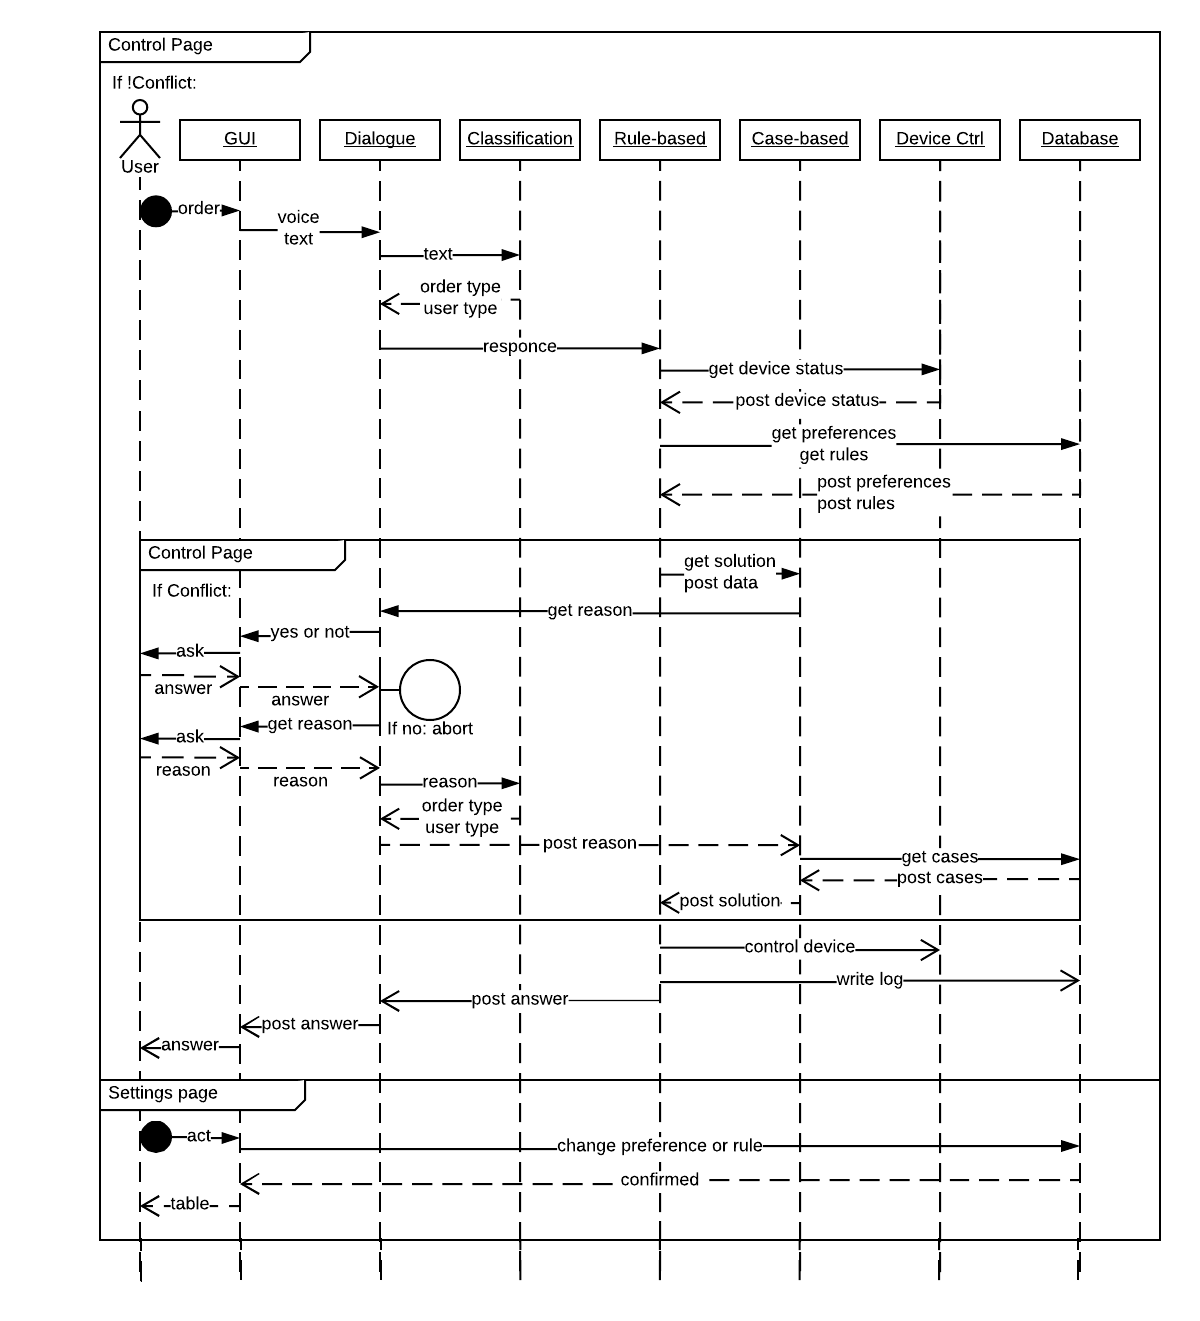
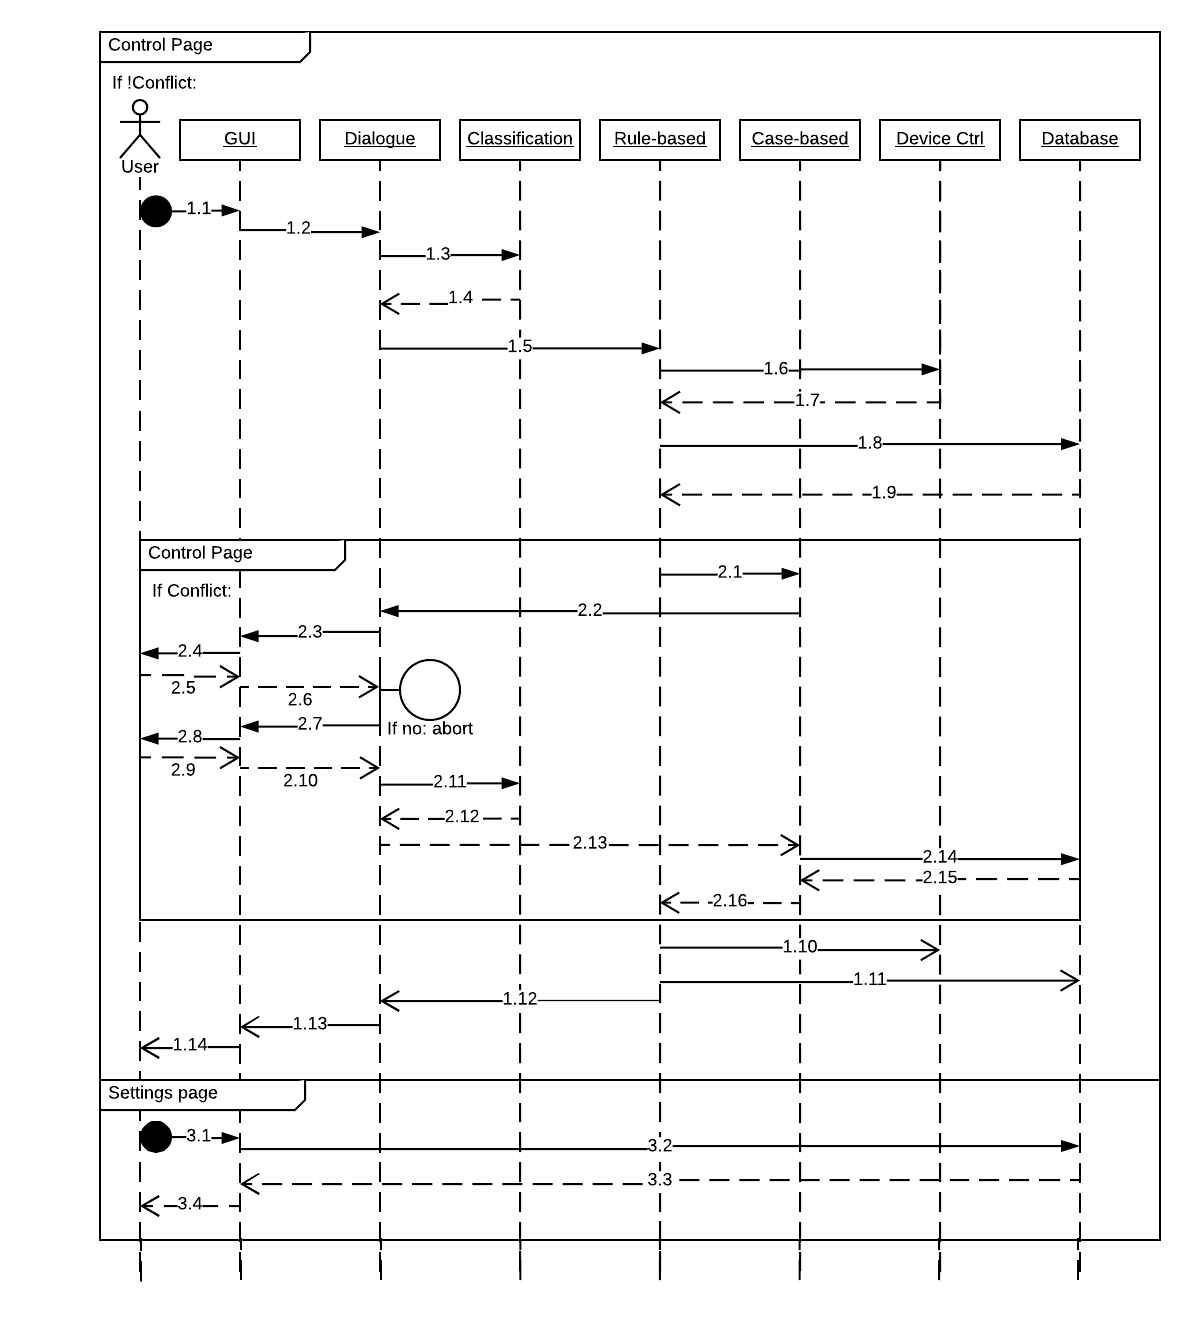
Some work with legal parts.

diff --git a/main.py b/main.py
@@ -10,7 +10,7 @@ app = Flask(__name__)
 
 
 def write2dbLOG(key, value):
-    con = pymysql.connect(host='0.0.0.0', unix_socket='/tmp/mysql.sock', user=None, passwd=None, db='virtass')
+    con = pymysql.connect(host='0.0.0.0', unix_socket='/tmp/mysql.sock', user="root", passwd="123", db='virtass')
     cur = con.cursor(pymysql.cursors.DictCursor)
     id = cur.execute("SELECT * FROM `eval` ORDER BY `eval`.`id` ASC LIMIT 10000")
     cur.execute("UPDATE `eval` SET `" + str(key) + "` = '" + str(value)
@@ -33,7 +33,7 @@ def check_status(deviceNum):
 
 def randomiser():
     # Change rules table
-    con = pymysql.connect(host='0.0.0.0', unix_socket='/tmp/mysql.sock', user=None, passwd=None, db='virtass')
+    con = pymysql.connect(host='0.0.0.0', unix_socket='/tmp/mysql.sock', user="root", passwd="123", db='virtass')
     cur = con.cursor(pymysql.cursors.DictCursor)
 
     users = ["Father", "Mother", "Son", "Grandpa"]
@@ -62,7 +62,7 @@ def randomiser():
         status = 0
     cur.close()
     con.close()
-    con = pymysql.connect(host='0.0.0.0', unix_socket='/tmp/mysql.sock', user=None, passwd=None, db='virtass')
+    con = pymysql.connect(host='0.0.0.0', unix_socket='/tmp/mysql.sock', user="root", passwd="123", db='virtass')
     cur = con.cursor(pymysql.cursors.DictCursor)
 
     cur.execute("UPDATE `rules` SET `user` = '" + str(user2) + "' WHERE `rules`.`id` = 0")
@@ -77,7 +77,7 @@ def randomiser():
     con.close()
 
     # Add values to eval table
-    con = pymysql.connect(host='0.0.0.0', unix_socket='/tmp/mysql.sock', user=None, passwd=None, db='virtass')
+    con = pymysql.connect(host='0.0.0.0', unix_socket='/tmp/mysql.sock', user="root", passwd="123", db='virtass')
     cur = con.cursor(pymysql.cursors.DictCursor)
     order = dev.title() + ["On", "Off"][status]
     Newreason = random.SystemRandom().choice(reasons)
@@ -151,7 +151,7 @@ def Summary():
     header = "Summary"
     with open("summary.txt", 'r') as out:
         summary = out.read()
-    con = pymysql.connect(host='0.0.0.0', unix_socket='/tmp/mysql.sock', user=None, passwd=None, db='virtass')
+    con = pymysql.connect(host='0.0.0.0', unix_socket='/tmp/mysql.sock', user="root", passwd="123", db='virtass')
     cur = con.cursor(pymysql.cursors.DictCursor)
     cur.execute('SELECT * FROM `eval`')
     dataset = cur.fetchall()

diff --git a/install_nltk.py b/install_nltk.py
@@ -1,0 +1,3 @@
+import nltk
+
+nltk.download('punkt')

diff --git a/README.md b/README.md
@@ -52,7 +52,7 @@ health, food, work, entertainment, security and energy consumption of the device
 to control system if there is no conflict between user order and system state.
   - Case-Based Reasoner - module that controls the system if there is a conflict between
 user input and system state or other user input.
-  - Device Control Unit - module that controls and monitors state of the devices (in this particular case: Kettle and Lamp)
+  - Device Control Unit - module that controls and monitors state of the devices (in this particular case: Kettle and Lamp) via get/post requests to VeraSecure controller.
 - Databases
   - MySQL database - as a database was used MySQL.
 - Devices
@@ -61,7 +61,46 @@ user input and system state or other user input.
 ## User cases
 ![UML sequence diagram](./images/UML.png)
 
+#### If there is no conflict
+1.1 User sends command (makes order) to GUI.  
+1.2 From GUI command goes to Dialogue component (Speech Recognition API, Speech Generation API and Dialogue Manager).  
+1.3 Dialogue component sends raw command to Classification component (Order Classification).  
+1.4 Classification component classifies command and sends it to Dialogue component.  
+1.5 Dialogue component sends user's identification (user type) and command to RBR (Rule-Based Reasoner).  
+1.6 RBR asks devices' statuses from Device Ctrl (Device Control Unit).  
+1.7 Device Ctrl posts devices' statuses to RBR (via taking data from VeraSecure).  
+1.8 RBR takes rules and preferences from database via MySQL commands.  
+1.9 Database sends data to RBR.  
+1.10 RBR changes devices via Device Ctrl.  
+1.11 RBR writes data to database (logs and new case if there was created one).  
+1.12 RBR sends report to Dialogue.  
+1.13 Dialogue based on report creates new answer to the user and sends it to GUI.  
+1.14 GUI shows and dictates answer to the user (and shows emotions by emojies).  
+1.15 User reads or listens the answer.  
 
+#### If there is conflict
+2.1 RBR sends data to CBR (Case-Based Reasoner) about conflict (user types of the conflicting users, device).  
+2.2 CBR asks reason of the user from Dialogue.  
+2.3 Dialogue creates question and sends it to GUI.
+2.4 GUI shows and dictates question:"There is conflict, do you want to go through the conflict" to the user.  
+2.5 The user decides and answers to the system.  
+2.6 GUI sends raw answer to Dialogue.  
+2.7 If user answered "no" -> then Dialogue aborts loop; else -> asks about the reason.  
+2.8 GUI shows and dictates question:"What is the reason?".  
+2.9 The user answers.   
+2.10 GUI sends raw answer to Dialogue.  
+2.11 Dialogue sends answer to Classification (Reason Classification).  
+2.12 Classification sends classified reason to Dialogue.  
+2.13 Dialogue sends data to CBR.  
+2.14 CBR takes cases from Database.  
+2.15 Database sends cases to CBR.  
+2.16 CBR resolves conflict and sends case output to RBR.  
+
+#### Changing settings
+3.1 The user form settings page changes rules or preferences.  
+3.2 GUI changes tables in Database.  
+3.3 Database sends new tables to GUI.  
+3.4 GUI shows tables to the user.  
 
 ## Getting Started
 
@@ -69,53 +108,73 @@ These instructions will get you a copy of the project up and running on your loc
 
 ### Prerequisites
 
-What things you need to install the software and how to install them
-
+1. Linux Uubuntu 16.04 (can be used any other Linux, but with other steps below)
+2. Git 2.7.4.
+```Shell
+sudo apt install git
 ```
-Give examples
+3. Python 3.6 and PIP for Python 3.6.
+```Shell
+sudo apt install python3-dev python3-pip
 ```
-
-### Installing
-
-A step by step series of examples that tell you have to get a development env running
-
-Say what the step will be
-
+4. Copy repository of the system to your machine:
+```Shell
+git clone https://github.com/BiggyBaron/VirtualAssistant.git
+cd VirtualAssistant
 ```
-Give the example
+5. Install all libraries:
+```Shell
+sudo pip3 install -r requirements.txt
 ```
-
-And repeat
-
-```
-until finished
-```
-
-End with an example of getting some data out of the system or using it for a little demo
-
-## Running the tests
-
-Explain how to run the automated tests for this system
-
-### Break down into end to end tests
-
-Explain what these tests test and why
-
-```
-Give an example
+6. Download Natural Language Toolkit database:
+```Shell
+python3 install_nltk.py
 ```
 
-### And coding style tests
-
-Explain what these tests test and why
-
+### Installing MySQL
+1. Update package index and packages:
+```Shell
+sudo apt-get update
+sudo apt-get upgrade
 ```
-Give an example
+2. Install MySQL:
+```Shell
+sudo apt-get install mysql-server
+```
+3. Set up MySQL (user=root, password="123"):
+```Shell
+sudo mysql_secure_installation
+```
+4. Check if MySQL is running:
+```Shell
+systemctl status mysql.service
+```
+5. Create MySQL database "virtass":
+* Enter to MySQL command line (password=123):
+```Shell
+mysql -u root -p
+```
+* Enter MySQL command to create it:
+```SQL
+CREATE DATABASE virtass;
+```
+6. Import database from repository:
+```Shell
+cd VirtualAssistant/DataBaseBackup
+mysql -u root -p virtass < virtass.sql
 ```
 
-## Deployment
+## Running all system
 
-Add additional notes about how to deploy this on a live system
+To run all system, go to the repository folder and start main.py:
+```Shell
+cd VirtualAssistant
+python3 main.py
+```
+In browser open:  
+https://localhost:8090/  
+Or:  
+https://your_ip:8090/  
 
 ## Built With
 
@@ -124,13 +183,13 @@ Add additional notes about how to deploy this on a live system
 * [Pycharm IDE](https://www.jetbrains.com/pycharm/)
 * [Una animated emojies](https://github.com/una/animated-emojis)
 * [W3School CSS templates](https://www.w3schools.com/w3css/w3css_templates.asp)
+* [Smart Home Controller VeraSecure](http://getvera.com/)
 
 ## Authors
 
 * **Bauyrzhan Ospan**
 * **Mario Jose Quinde Li Say Tan**
-
-See also the list of [contributors](https://github.com/your/project/contributors) who participated in this project.
+* **Kenzhegali Nurgaliyev**
 
 ## License
 
